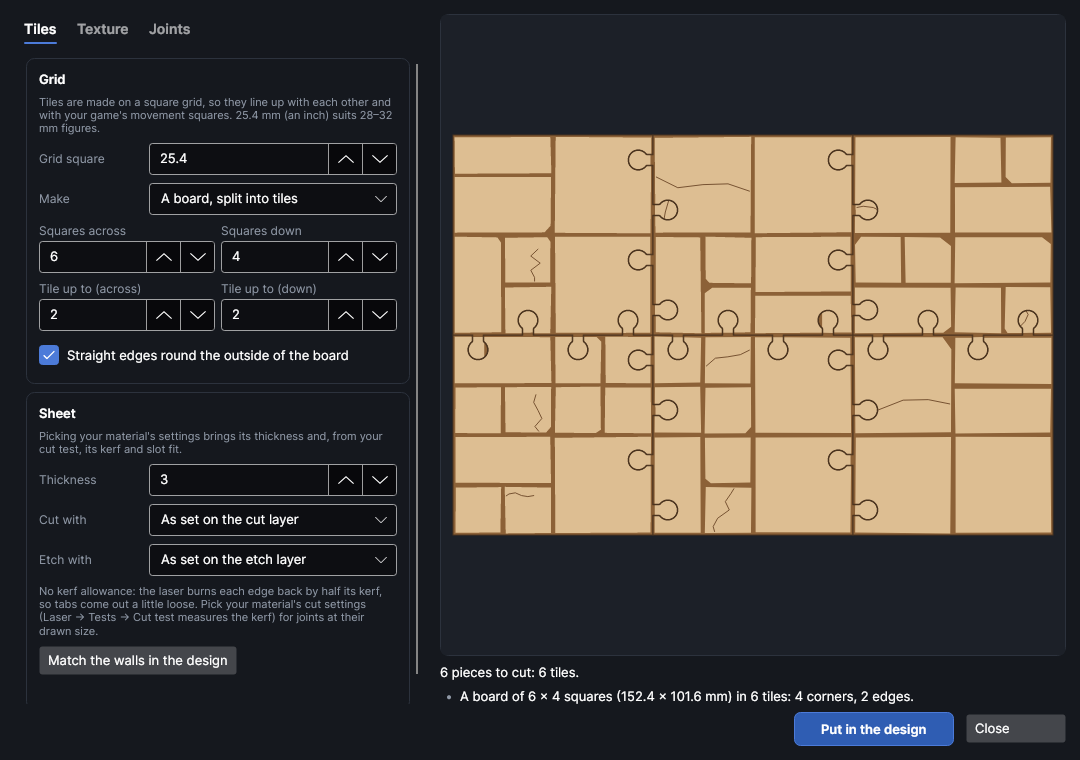
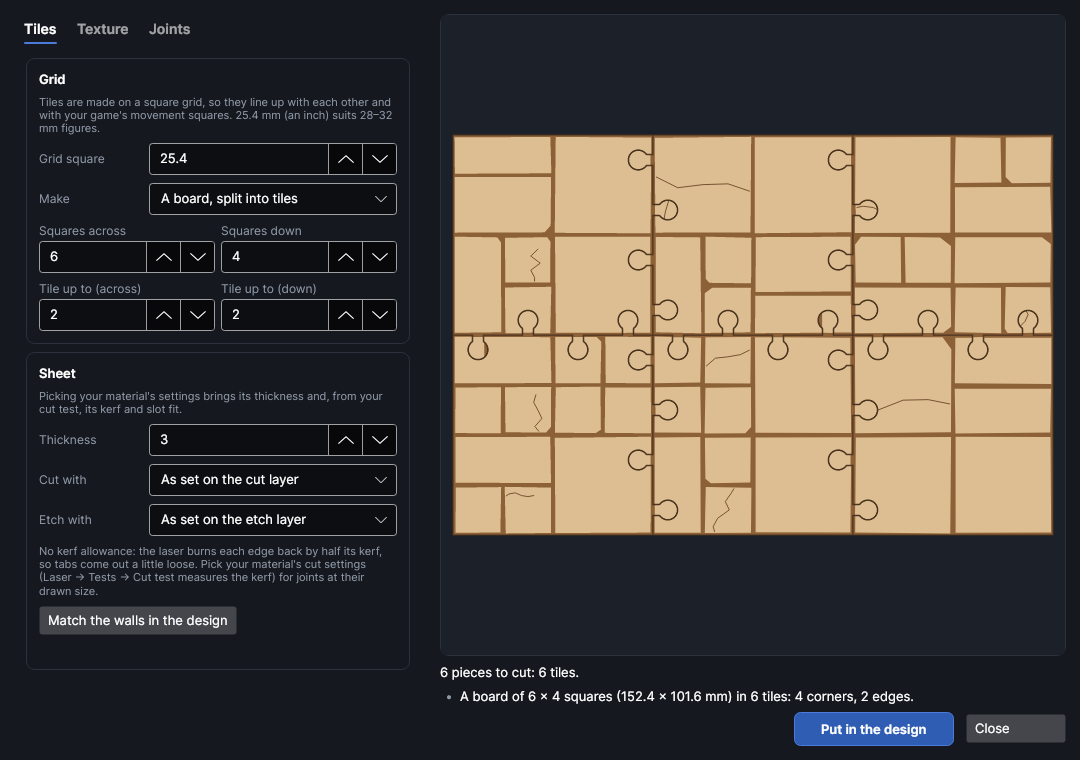
Floor tiles: joints only in the base layer, and joints round a board's outside
With a base layer, jigsaw tiles had the tabs and sockets cut in the top
as well as the base (in the preview and the cut output). The jigsaw is
now in the base only, under a plain top that hides it, the same as clips
and magnets already were.

The board's "straight edges round the outside" setting moves to the
Joints tab as "Joints round the outside of the board too", so boards can
lock onto each other; a note says so, and the help explains both.

Claude-Session: https://claude.ai/code/session_018iRXF1WXk9jDY3vWofyHJy

Changed region(s): [[0.0306, 0.6658, 0.3667, 0.9079], [0.0306, 0.4539, 0.3667, 0.6355], [0.0306, 0.6658, 0.0917, 0.6961]]

diff --git a/src/Addons/FloorTiles/FloorTilesWindow.cs b/src/Addons/FloorTiles/FloorTilesWindow.cs
@@ -31,7 +31,8 @@ public sealed class FloorTilesWindow : Window
     readonly NumericUpDown _square = Number(5, 300, 0.1m, "0.##"), _thick = Number(0.5m, 20, 0.5m, "0.##");
     readonly ComboBox _mode = Combo("A board, split into tiles", "Loose tiles");
     readonly NumericUpDown _boardA = Number(0.5m, 200, 1, "0.##"), _boardD = Number(0.5m, 200, 1, "0.##"), _tileA = Number(1, 20, 1, "0"), _tileD = Number(1, 20, 1, "0");
-    readonly CheckBox _border = new() { Content = "Straight edges round the outside of the board", IsChecked = true };
+    readonly CheckBox _outside = new() { Content = "Joints round the outside of the board too" };
+    readonly TextBlock _outsideAbout = Hint();
     readonly StackPanel _sizes = new() { Spacing = 6 };
     readonly List<SizeRow> _sizeRows = [];
     Control _boardRows = null!, _tilesRows = null!;
@@ -173,8 +174,7 @@ public sealed class FloorTilesWindow : Window
     {
         _boardRows = Stack(
             Row(Small("Squares across", _boardA, tip: "How wide the board is, in grid squares. A part square (4.5) makes the last column narrower."), Small("Squares down", _boardD, tip: "How deep the board is, in grid squares.")),
-            Row(Small("Tile up to (across)", _tileA, tip: "The biggest tile the board is cut into, in squares across."), Small("Tile up to (down)", _tileD, tip: "The biggest tile, in squares down.")),
-            _border);
+            Row(Small("Tile up to (across)", _tileA, tip: "The biggest tile the board is cut into, in squares across."), Small("Tile up to (down)", _tileD, tip: "The biggest tile, in squares down.")));
         var add = UiKit.Button("Add a tile size");
         add.HorizontalAlignment = HorizontalAlignment.Left;
         add.Click += (_, _) => { AddSizeRow(new TileSize { Count = 1 }); Changed(); };
@@ -187,7 +187,7 @@ public sealed class FloorTilesWindow : Window
         return Stack(
             Explained("Grid", "Tiles are made on a square grid, so they line up with each other and with your game's movement squares. 25.4 mm (an inch) suits 28–32 mm figures.",
                 Field("Grid square", _square, tip: "One square of the grid (mm)."),
-                Field("Make", _mode, tip: "A whole board, split into tiles with straight edges round the outside, or tiles of the sizes you list."),
+                Field("Make", _mode, tip: "A whole board, split into tiles (straight round the outside, or with joints there too: see Joints), or tiles of the sizes you list."),
                 _boardRows, _tilesRows),
             Explained("Sheet", "Picking your material's settings brings its thickness and, from your cut test, its kerf and slot fit.",
                 Field("Thickness", _thick, tip: "The sheet's thickness (mm)."),
@@ -232,7 +232,10 @@ public sealed class FloorTilesWindow : Window
                 _tabRow,
                 _magnetRow,
                 Field("Fit", _fit, tip: "Play between a tab or clip and its socket (mm): more is looser. With your material's cut settings picked, the kerf is allowed for too.")),
-            Explained("Base layer", "A second, plain layer glued under each tile makes them thicker and flatter. Clips then go in the base layer only, out of sight; magnets always have one.",
+            Explained("Outside edges", "Straight round the outside, the board ends neatly. With joints there too, it locks onto other boards made on the same grid, to build a bigger floor from several.",
+                _outside,
+                _outsideAbout),
+            Explained("Base layer", "A second layer glued under each tile makes them thicker and flatter. The joints then go in the base layer only, under a plain top that hides them; magnets always have one.",
                 _base));
     }
 
@@ -328,7 +331,7 @@ public sealed class FloorTilesWindow : Window
             n.ValueChanged += (_, _) => Changed();
         foreach (var c in new[] { _mode, _etch, _grid, _join, _etchWith })
             c.SelectionChanged += (_, _) => Changed();
-        foreach (var c in new[] { _border, _base })
+        foreach (var c in new[] { _outside, _base })
             c.IsCheckedChanged += (_, _) => Changed();
         _cutWith.SelectionChanged += (_, _) => CutChosen();
         _texture.SelectionChanged += (_, _) => TextureChosen();
@@ -413,6 +416,12 @@ public sealed class FloorTilesWindow : Window
         _tabLabel.Text = join == TileJoin.Clips ? "Clip size" : "Tab size";
         _magnetRow.IsVisible = join == TileJoin.Magnets;
         _base.IsEnabled = join != TileJoin.Magnets;
+        _outside.IsVisible = board;
+        _outside.IsEnabled = join != TileJoin.None;
+        _outsideAbout.Text = !board
+            ? "Loose tiles have joints on every side but the straight sides you pick for each size (Tiles tab): pick None for joints all round."
+            : _outside.IsChecked == true ? "The tiles round the outside get joints on their outer sides as well, the same as between tiles." : "";
+        _outsideAbout.IsVisible = _outsideAbout.Text.Length > 0;
         _joinAbout.Text = join switch
         {
             TileJoin.Jigsaw => "A jigsaw tab and a socket on every square of every edge. They push together from above and hold the floor flat.",
@@ -430,7 +439,7 @@ public sealed class FloorTilesWindow : Window
         _loading = true;
         _square.Value = D(s.SquareMm); _thick.Value = D(s.ThicknessMm); _mode.SelectedIndex = (int)s.Mode;
         _boardA.Value = D(s.BoardAcross); _boardD.Value = D(s.BoardDown); _tileA.Value = Math.Clamp(s.TileAcross, 1, 20); _tileD.Value = Math.Clamp(s.TileDown, 1, 20);
-        _border.IsChecked = s.PlainBorder;
+        _outside.IsChecked = !s.PlainBorder;
         _sizeRows.Clear();
         _sizes.Children.Clear();
         foreach (var t in s.Tiles) AddSizeRow(t);
@@ -447,7 +456,7 @@ public sealed class FloorTilesWindow : Window
     TileSpec Current() => new()
     {
         SquareMm = V(_square, 25.4), ThicknessMm = V(_thick, 3), Mode = (TileMode)Math.Max(0, _mode.SelectedIndex),
-        BoardAcross = V(_boardA, 6), BoardDown = V(_boardD, 6), TileAcross = (int)V(_tileA, 2), TileDown = (int)V(_tileD, 2), PlainBorder = _border.IsChecked == true,
+        BoardAcross = V(_boardA, 6), BoardDown = V(_boardD, 6), TileAcross = (int)V(_tileA, 2), TileDown = (int)V(_tileD, 2), PlainBorder = _outside.IsChecked != true,
         Tiles = [.. _sizeRows.Select(r => r.Value)],
         Theme = ThemeName, Texture = TextureName, Custom = OwnTexture, SizeA = V(_sizeA, 50), SizeB = V(_sizeB, 0), GrooveMm = V(_groove, 0.8), Seed = (int)V(_seed, 1), CracksPct = V(_cracks, 15),
         Etch = (EtchStyle)Math.Max(0, _etch.SelectedIndex), Grid = (GridMarks)Math.Max(0, _grid.SelectedIndex),

diff --git a/tests/PhotonCanvas.Tests/FloorTilesTests.cs b/tests/PhotonCanvas.Tests/FloorTilesTests.cs
@@ -131,6 +131,84 @@ public class FloorTilesTests
     }
 
     [Fact]
+    public void With_a_base_layer_the_jigsaw_is_only_in_the_base()
+    {
+        var k = Make(new TileSpec { BoardAcross = 6, BoardDown = 6, Join = TileJoin.Jigsaw, BaseLayer = true, Texture = FloorTextures.Plain });
+        Assert.True(k.Ok, Why(k));
+        Assert.Contains(k.Findings, f => f.Text.Contains("base layer only"));
+        foreach (var spot in k.Board)
+        {
+            // The top is a plain rectangle, exactly its squares.
+            var tb = Geo.Bounds(spot.Tile.Cut);
+            Assert.Equal(0, tb.left, 6); Assert.Equal(0, tb.top, 6);
+            Assert.Equal(spot.W, tb.right, 6); Assert.Equal(spot.H, tb.bottom, 6);
+            Assert.Equal(spot.W * spot.H, Geo.Area(spot.Tile.Cut), 3);
+        }
+        // The middle tile's base has the tabs and sockets the top no longer has.
+        var middle = k.Board.Single(b => b.Plain == Sides.None);
+        var mbase = k.Parts.Single(p => p.Name == middle.Tile.Name + TileKitMaker.BaseSuffix);
+        var bb = Geo.Bounds(mbase.Cut);
+        Assert.True(bb.left < -5 && bb.right > middle.W + 5 && bb.top < -5 && bb.bottom > middle.H + 5);
+        Assert.True(Geo.Area(Geo.Subtract([Geo.Rect(0, 0, middle.W, middle.H)], mbase.Cut)) > 30, "no sockets in the base");
+        // And the bases lock together on the board without overlapping.
+        var bases = k.Board.Select(b => Geo.Move(k.Parts.Single(p => p.Name == b.Tile.Name + TileKitMaker.BaseSuffix).Cut, b.X, b.Y)).ToList();
+        for (int i = 0; i < bases.Count; i++)
+            for (int j = i + 1; j < bases.Count; j++)
+                Assert.True(Geo.Area(Geo.Intersect(bases[i], bases[j])) < 1e-3, $"bases {i} and {j} overlap");
+        // Without a base layer the top has the jigsaw itself.
+        var plain = Make(new TileSpec { BoardAcross = 6, BoardDown = 6, Join = TileJoin.Jigsaw, Texture = FloorTextures.Plain });
+        Assert.DoesNotContain(plain.Parts, p => p.Name.EndsWith(TileKitMaker.BaseSuffix));
+        var pm = Geo.Bounds(plain.Board.Single(b => b.Plain == Sides.None).Tile.Cut);
+        Assert.True(pm.left < -5);
+    }
+
+    [Theory]
+    [InlineData(TileJoin.Jigsaw)]
+    [InlineData(TileJoin.Clips)]
+    [InlineData(TileJoin.Magnets)]
+    public void Base_layer_tops_are_plain_and_hold_the_whole_texture(TileJoin join)
+    {
+        var k = Make(new TileSpec { BoardAcross = 2, BoardDown = 2, Join = join, BaseLayer = true, Texture = "Dungeon flagstones" });
+        Assert.True(k.Ok, Why(k));
+        var tile = k.Board.Single().Tile;
+        Assert.Equal(2 * G * 2 * G, Geo.Area(tile.Cut), 3);
+        Assert.True(Geo.Area(Geo.Subtract(tile.Etched, tile.Cut)) < 1e-3);
+    }
+
+    [Fact]
+    public void Boards_with_joints_round_the_outside_lock_onto_each_other()
+    {
+        var spec = new TileSpec { BoardAcross = 4, BoardDown = 4, TileAcross = 2, TileDown = 2, PlainBorder = false, Texture = FloorTextures.Plain };
+        var k = Make(spec);
+        Assert.True(k.Ok, Why(k));
+        Assert.All(k.Board, b => Assert.Equal(Sides.None, b.Plain));
+        Assert.Contains(k.Findings, f => f.Text.Contains("outside edges have joints"));
+        // A corner tile now has tabs out past the board's edge.
+        var corner = Geo.Bounds(k.Board.Single(b => b.X == 0 && b.Y == 0).Tile.Cut);
+        Assert.True(corner.left < -5 && corner.top < -5);
+
+        PathsD Board(double dx, double dy) => Geo.Union(new PathsD(k.Board.SelectMany(b => Geo.Move(b.Tile.Cut, b.X + dx, b.Y + dy))));
+        var a = Board(0, 0);
+        foreach (var (dx, dy) in new[] { (4 * G, 0.0), (0.0, 4 * G) })
+        {
+            // A second board beside or above it: they don't overlap and its tabs reach into the first one's sockets.
+            var b = Board(dx, dy);
+            Assert.True(Geo.Area(Geo.Intersect(a, b)) < 1e-3, "the boards overlap");
+            var past = dx > 0 ? Geo.Rect(-G, -G, 4 * G, 5 * G) : Geo.Rect(-G, -G, 5 * G, 4 * G);
+            Assert.True(Geo.Area(Geo.Intersect(b, [past])) > 10, "no tabs reach across");
+        }
+        // Turned round, a board still fits against another.
+        var turned = Geo.Move(Turned(a, 2, 4 * G, 4 * G), 4 * G, 0);
+        Assert.True(Geo.Area(Geo.Intersect(a, turned)) < 1e-3, "a turned board overlaps");
+
+        // Straight round the outside (the default), the corner is square there.
+        var straight = Make(spec with { PlainBorder = true });
+        var sc = Geo.Bounds(straight.Board.Single(b => b.X == 0 && b.Y == 0).Tile.Cut);
+        Assert.Equal(0, sc.left, 6);
+        Assert.DoesNotContain(straight.Findings, f => f.Text.Contains("outside edges have joints"));
+    }
+
+    [Fact]
     public void Clips_without_a_base_are_cut_through_the_tile()
     {
         var k = Make(Loose(1, 1, TileJoin.Clips));

diff --git a/src/Addons/FloorTiles/Engine/TileKit.cs b/src/Addons/FloorTiles/Engine/TileKit.cs
@@ -172,6 +172,7 @@ public static class TileKitMaker
                 if (bridge < 1.2 || Joints.TabReach(d) > g * 0.4) { findings.Add(new(Severity.Bad, $"The tabs are too big for {g:0.#} mm squares: make the tab size {most:0.#} mm or less.")); return false; }
                 if (bridge < 2) findings.Add(new(Severity.Warn, $"Only {bridge:0.#} mm is left between the sockets and the tiles' corners: it may snap in thin plywood. Smaller tabs are stronger there."));
                 if (d * 0.55 < 2.5) findings.Add(new(Severity.Warn, $"The tabs' necks are {d * 0.55:0.#} mm wide: they may snap. Bigger tabs are stronger."));
+                if (s.BaseLayer) findings.Add(new(Severity.Note, "The jigsaw is cut in the base layer only: the tops are plain squares that sit edge to edge over it and hide the joints."));
                 break;
             }
             case TileJoin.Clips:
@@ -243,8 +244,10 @@ public static class TileKitMaker
         switch (s.Join)
         {
             case TileJoin.Jigsaw:
-                top = Geo.Tidy(Geo.Subtract(Geo.Union(rect, tabs), Geo.Union(sockets)));
-                baseCut = top;
+                // With a base layer the jigsaw is in the base only: the tops are plain and sit edge to edge over it, hiding the joints.
+                var jigsaw = Geo.Tidy(Geo.Subtract(Geo.Union(rect, tabs), Geo.Union(sockets)));
+                top = s.BaseLayer ? rect : jigsaw;
+                baseCut = jigsaw;
                 break;
             case TileJoin.Clips:
                 var notched = Geo.Tidy(Geo.Subtract(rect, sockets));
@@ -310,6 +313,10 @@ public static class TileKitMaker
             if (other > 0) kinds.Add($"{other} other");
             string split = s.PlainBorder && kinds.Count > 1 ? $": {string.Join(", ", kinds)}" : "";
             findings.Add(new(Severity.Note, $"A board of {Squares(s.BoardAcross)} × {Squares(s.BoardDown)} squares ({s.BoardAcross * g:0.#} × {s.BoardDown * g:0.#} mm) in {jobs.Count} tile{(jobs.Count == 1 ? "" : "s")}{split}."));
+            if (!s.PlainBorder && s.Join != TileJoin.None)
+                findings.Add(new(Severity.Note, Frac(s.BoardAcross) || Frac(s.BoardDown)
+                    ? "The outside edges have joints too, so the board fits against others. The part squares at its far edge have none: line boards up by their whole squares."
+                    : "The outside edges have joints too, so the board fits against any other made on the same grid, turned any way round."));
         }
         if (clips > 0) findings.Add(new(Severity.Note, $"{clips} clip{(clips == 1 ? "" : "s")} to join them: push one into each pair of sockets that meet{(s.BaseLayer ? ", from underneath" : "")}."));
         if (s.Join == TileJoin.Magnets && magnets > 0)

diff --git a/src/Addons/FloorTiles/Engine/TileSpec.cs b/src/Addons/FloorTiles/Engine/TileSpec.cs
@@ -49,7 +49,7 @@ public sealed record TileSpec
     /// <summary>The largest tile the board is split into, in squares.</summary>
     public int TileAcross { get; init; } = 2;
     public int TileDown { get; init; } = 2;
-    /// <summary>Straight edges round the outside of the board, so it ends neatly.</summary>
+    /// <summary>Straight edges round the outside of the board, so it ends neatly. Off, the outside edges get joints too, so boards join to each other.</summary>
     public bool PlainBorder { get; init; } = true;
 
     /// <summary>The loose tiles (Tiles mode).</summary>
@@ -78,7 +78,7 @@ public sealed record TileSpec
     public double TabMm { get; init; } = 5;
     /// <summary>Play between a tab and its socket, or a clip and its socket (mm, half each side), on top of the kerf the cut layer allows for.</summary>
     public double FitMm { get; init; } = 0.15;
-    /// <summary>A second, plain layer glued under each tile: thicker, flatter tiles, and somewhere to hide the clips (magnets always have one).</summary>
+    /// <summary>A second layer glued under each tile: thicker, flatter tiles, with the joints (jigsaw, clip sockets or magnets) in it only, hidden under a plain top (magnets always have one).</summary>
     public bool BaseLayer { get; init; }
     /// <summary>The magnets' diameter (mm).</summary>
     public double MagnetMm { get; init; } = 5;

diff --git a/tools/HelpShots/FloorTilesShots.cs b/tools/HelpShots/FloorTilesShots.cs
@@ -41,6 +41,7 @@ static class FloorTilesShots
             Tiles = [new() { Across = 2, Down = 2, Count = 2 }, new() { Across = 2, Down = 1, Count = 2, Plain = PlainSides.One }, new() { Across = 1, Down = 1, Count = 2, Plain = PlainSides.Corner }],
         }, 1);
         Shot("window-floortiles-clips", new TileSpec { BoardAcross = 4, BoardDown = 3, TileAcross = 2, TileDown = 3, Texture = "Floorboards", SizeA = 5.08, SizeB = 60, GrooveMm = 0.5, Join = TileJoin.Clips, BaseLayer = true }, 2);
+        Shot("window-floortiles-base", new TileSpec { BoardAcross = 4, BoardDown = 4, Texture = "Dungeon flagstones", SizeA = 50, GrooveMm = 0.8, BaseLayer = true, PlainBorder = false }, 2);
     }
 
     static IEnumerable<T> GetVisualDescendantsOf<T>(this Avalonia.Visual v) => Avalonia.VisualTree.VisualExtensions.GetVisualDescendants(v).OfType<T>();

diff --git a/src/Addons/FloorTiles/help/floortiles.md b/src/Addons/FloorTiles/help/floortiles.md
@@ -39,7 +39,6 @@ are replaced wherever they are.
 | **Make** | A board | *A board, split into tiles*: a whole floor cut into tiles. *Loose tiles*: tiles of the sizes you list. |
 | **Squares across**, **Squares down** | 0.5 to 200 (6 × 6) | The board's size in squares. A part square (such as 4.5) makes the last column or row narrower, to fill a room exactly. |
 | **Tile up to** | 1 to 20 squares (2 × 2) | The biggest tile the board is cut into. Where the board doesn't divide evenly the last column or row is smaller. |
-| **Straight edges round the outside** | on | The tiles round the outside of the board have straight sides there, so the floor ends neatly. |
 | **Thickness** | 0.5 to 20 mm (3) | Your sheet's thickness. |
 | **Cut with** | As set on the cut layer | Cut settings from your material library. Their kerf goes on the cut layer, so tabs and sockets come out the size they're drawn, and the material's thickness and slot fit from your cut test are filled in. |
 | **Etch with** | As set on the etch layer | Engrave (fill) settings from your library for the texture. |
@@ -140,8 +139,18 @@ with the tiles.
   doesn't, and warns when what's left beside a corner gets thin.
 - **Magnet size**: the magnets' diameter (5 mm). Use magnets no thicker than the sheet.
 - **Fit**: the play between a tab or clip and its socket, half of it each side. More is looser.
-- **Base layer**: a second, plain layer glued under each tile, for thicker, flatter tiles. Glue it
-  lined up all round. With jigsaw edges the base has the same tabs, so the two layers lock as one.
+- **Joints round the outside of the board too** (boards only, off by default): off, the tiles round
+  the outside of the board have straight sides there, so the floor ends neatly. On, the outside edges
+  get the same joints as between tiles, so the board locks onto other boards made on the same grid
+  (turned any way round) to build a bigger floor. Loose tiles have joints on every side but the
+  **Straight sides** you pick for them.
+- **Base layer**: a second layer glued under each tile, for thicker, flatter tiles. Glue it lined up
+  all round. The joints are then in the base layer only: jigsaw tabs and sockets, clip sockets or
+  magnet holes are cut in the base, and the top is a plain square (with the texture) that sits edge
+  to edge with its neighbours and hides them. The preview shows the tops put together, with one base
+  layer underneath.
+
+![A board with jigsaw joints in a base layer only, and joints round the outside to join it to other boards](images/window-floortiles-base.png)
 
 Where a board isn't a whole number of squares, the part squares at its far edge have no joint (on
 both tiles that meet there), and a tile with a part square only fits the others when lined up on the
